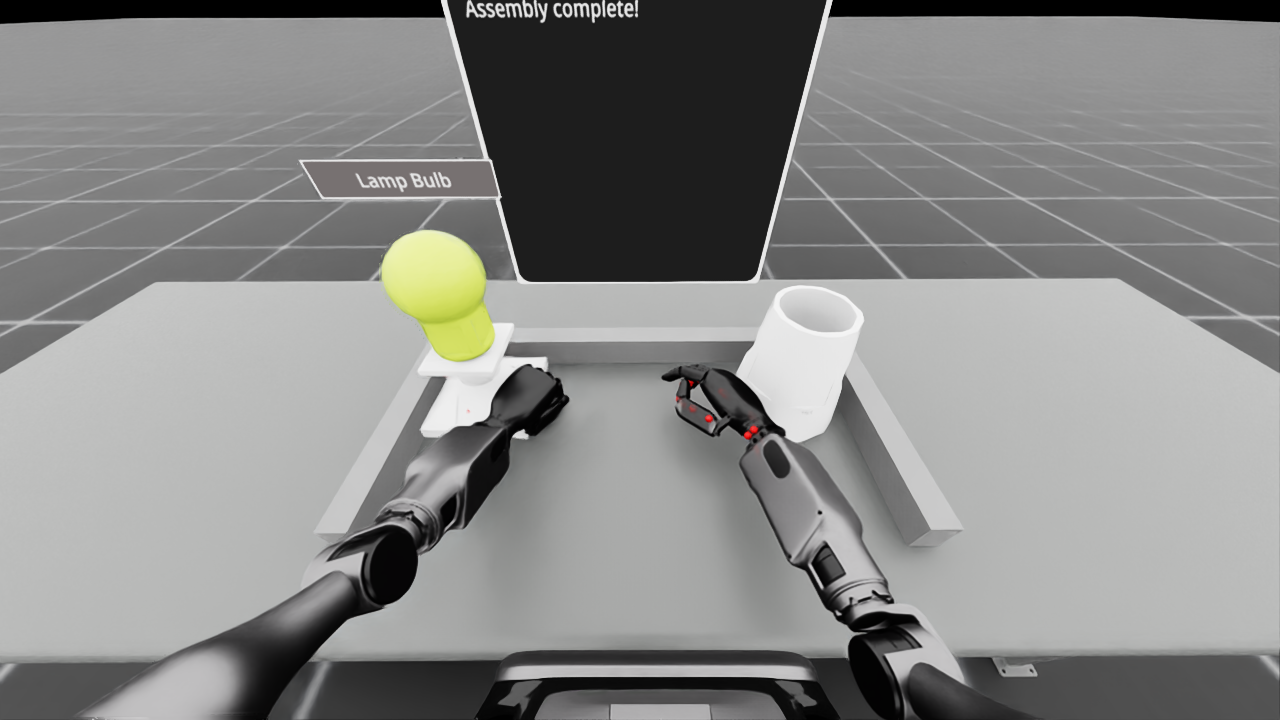
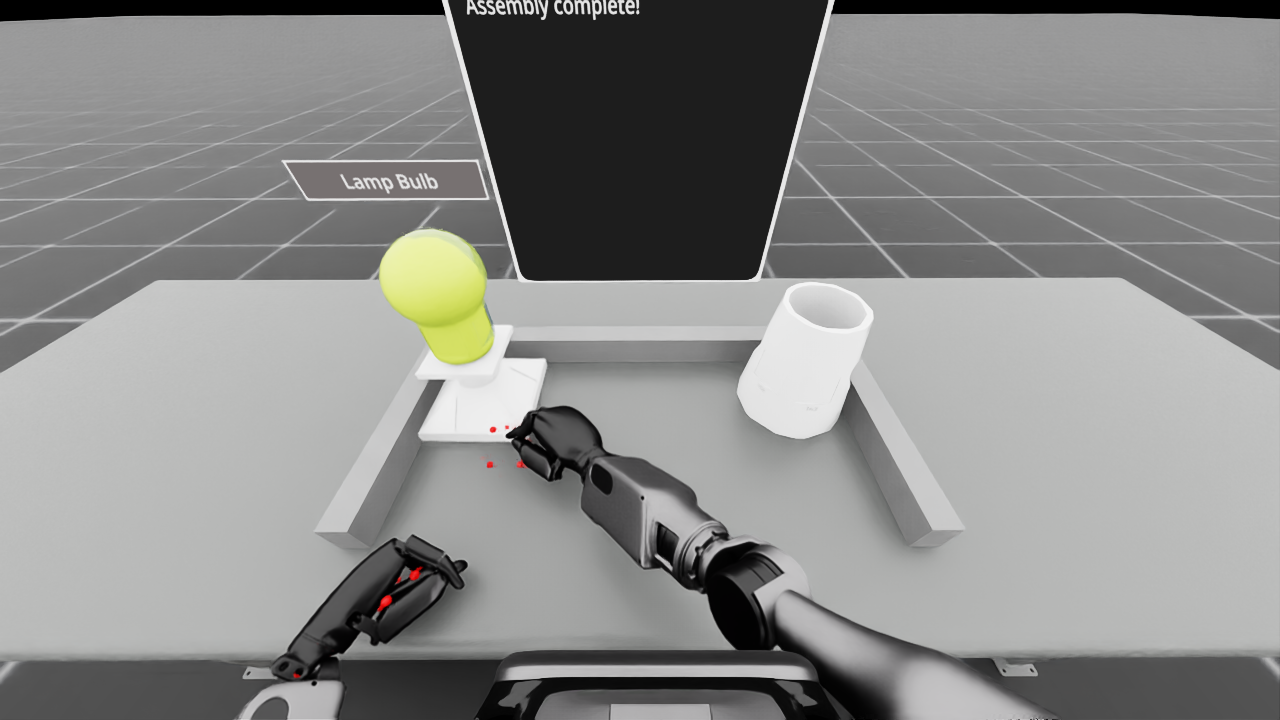
Added desk targets

diff --git a/scripts/environments/teleoperation/guides/stable.py b/scripts/environments/teleoperation/guides/stable.py
@@ -479,4 +479,4 @@ class StableGuide(BaseGuide):
     def on_step_completed(self, env, step_index: int) -> None:
         # step_index 4
         if step_index == 4:
-            self.snap_parts_to_targets(env, ["FrontRightLeg", "FrontLeftLeg"])
+            self.snap_parts_to_targets(env, ["TableTop", "FrontRightLeg", "FrontLeftLeg"])

diff --git a/scripts/environments/teleoperation/guides/desk.py b/scripts/environments/teleoperation/guides/desk.py
@@ -478,4 +478,4 @@ class DeskGuide(BaseGuide):
     
     def on_step_completed(self, env, step_index: int) -> None:
         if step_index == 4:
-            self.snap_parts_to_targets(env, ["FrontRightLeg", "FrontLeftLeg"])
+            self.snap_parts_to_targets(env, ["DeskTop", "FrontRightLeg", "FrontLeftLeg"])
